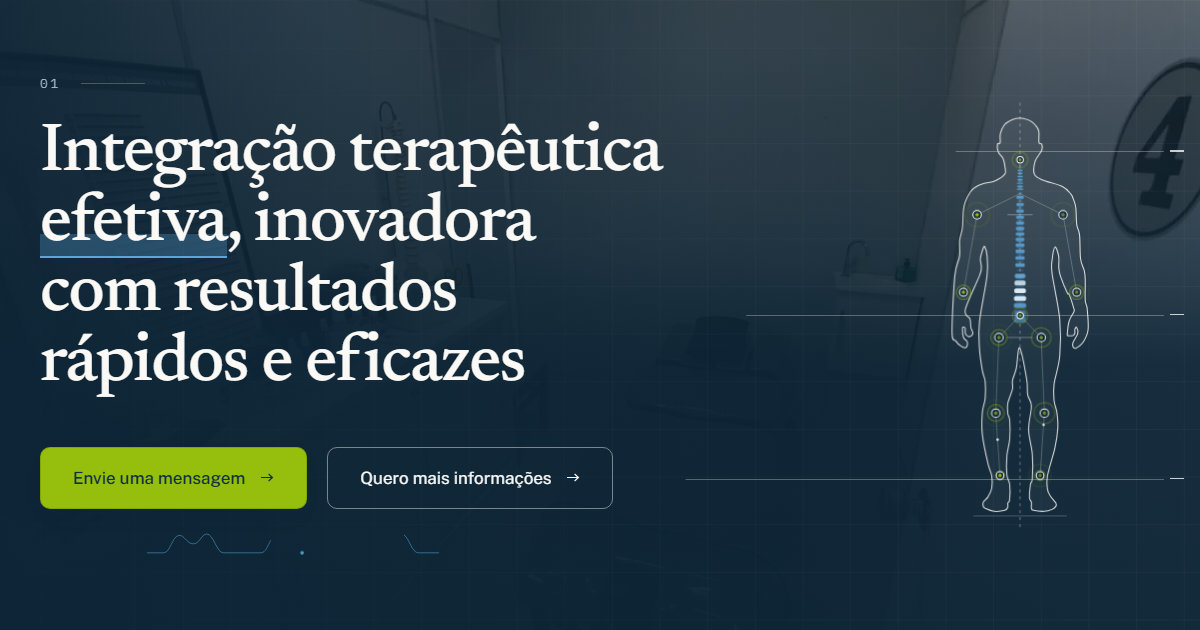
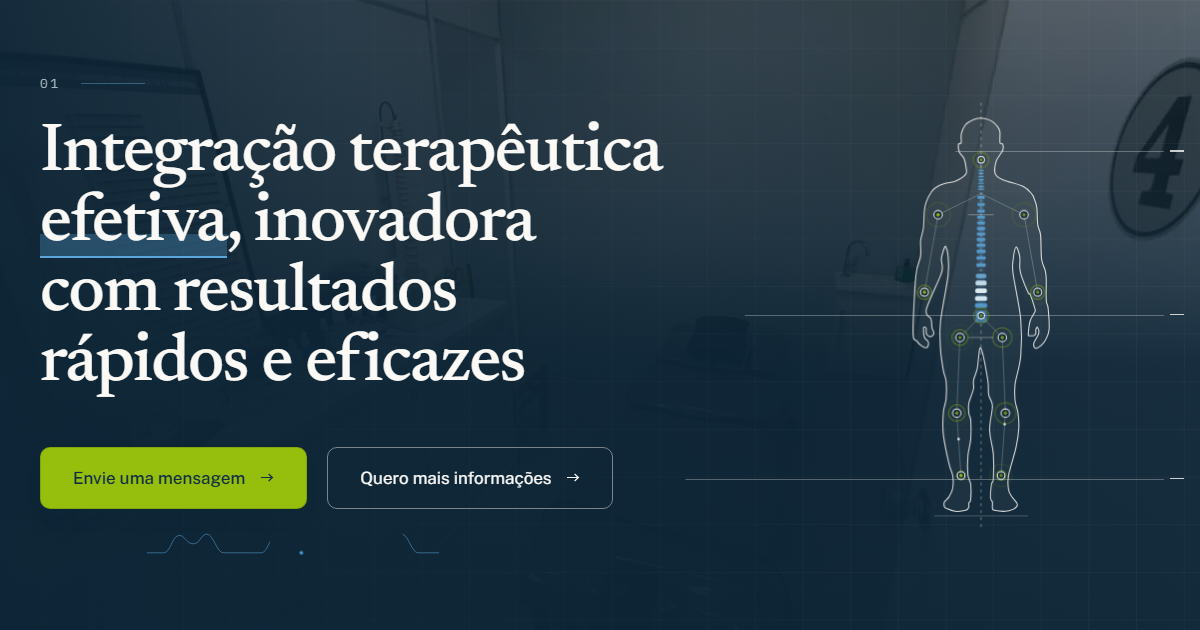
hero: figura mais 47px a esquerda nas larguras grandes
A margem direita da peca vai de 96/108/148/188 para 104/155/195/235px em
1024/1280/1440/1600.

Em 1024 a figura anda so 8px, e nao por escolha: ali o campo tem 339px e
a figura 223, entao a margem so pode chegar a 116 antes de a peca
alcancar o inicio do campo e entrar no titulo. O piso de 104 deixa 36px
de folga com o titulo, contra o minimo de 23. De 1280 para cima o teto e'
223 / 293 / 373 e quem manda e' a rampa, que move os 47px pedidos.

Verificado no build de producao em 320, 390, 768, 1024, 1280, 1440 e
1600: sem rolagem horizontal; CLS 0 (0,0006 em 1280); contraste do titulo
por pixel de glifo entre 6,53 e 6,64, botao primario 6,5, secundario
>= 6,8; figura inteira dentro da secao e o bbox do conteudo dentro do
viewBox, sem corte; nunca sob o titulo; com movimento reduzido nada
rodando e nada se movendo entre quadros.

Folga entre titulo e figura: 36 / 92 / 122 / 162px.

Conferida tambem a janela estreita e alta (1024 x 1050), onde a figura
chega ao teto de 760 de altura e nao cabe em largura: o flex encolhe a
caixa e o preserveAspectRatio reduz o desenho dentro dela, entao a peca
para exatamente no inicio do campo, sem passar por baixo do titulo e sem
rolagem. Comportamento que ja existia antes desta mudanca.

og.png regenerado.

Claude-Session: https://claude.ai/code/session_01KhpJYZZPPYwz7LqkQggVNj

Changed region(s): [[0.74, 0.2413, 0.925, 0.8143], [0.8017, 0.181, 0.8633, 0.2111]]

diff --git a/src/components/hero.tsx b/src/components/hero.tsx
@@ -142,9 +142,13 @@ export function Hero() {
           esse limite (1280 sem recuo, 1440 com 50). Se o corpo do titulo
           ou o max-w do contentor mudar, estes dois calc mudam junto.
 
-          A margem direita afasta a peca da borda da janela: 96 / 108 / 148 /
-          188px em 1024 / 1280 / 1440 / 1600. Foi aumentada para trazer a
-          figura para a esquerda.
+          A margem direita afasta a peca da borda da janela: 104 / 155 / 195 /
+          235px em 1024 / 1280 / 1440 / 1600. E' o que traz a figura para a
+          esquerda. O piso de 104 nao e' escolha de gosto: em 1024 o campo
+          tem 339px e a figura 223, entao a margem so pode chegar a 116
+          antes de a peca alcancar o inicio do campo e entrar no titulo.
+          Em 1280 para cima o teto e' 223 / 293 / 373, e a rampa e' que
+          manda.
 
           A figura e' vertical (221 x 560), entao a escala vem da altura do
           hero, nao da largura do campo: altura = altura do hero menos 112px
@@ -157,7 +161,7 @@ export function Hero() {
         */}
         <div
           aria-hidden="true"
-          className="pointer-events-none relative mx-auto mt-12 w-[min(78vw,320px)] lg:absolute lg:inset-y-0 lg:right-0 lg:m-0 lg:flex lg:w-[calc(100vw_-_685px)] lg:items-center lg:justify-end lg:pr-[max(96px,25vw_-_212px)] xl:w-[calc(100vw_-_max(0px,(100vw_-_1340px)/2)_-_822px)]"
+          className="pointer-events-none relative mx-auto mt-12 w-[min(78vw,320px)] lg:absolute lg:inset-y-0 lg:right-0 lg:m-0 lg:flex lg:w-[calc(100vw_-_685px)] lg:items-center lg:justify-end lg:pr-[max(104px,25vw_-_165px)] xl:w-[calc(100vw_-_max(0px,(100vw_-_1340px)/2)_-_822px)]"
         >
           {/* Linhas de referencia da versao com a coluna em SVG: 1px em papel a
               0,3, com o traco curto de 14px x 1,4px na ponta direita, mais
